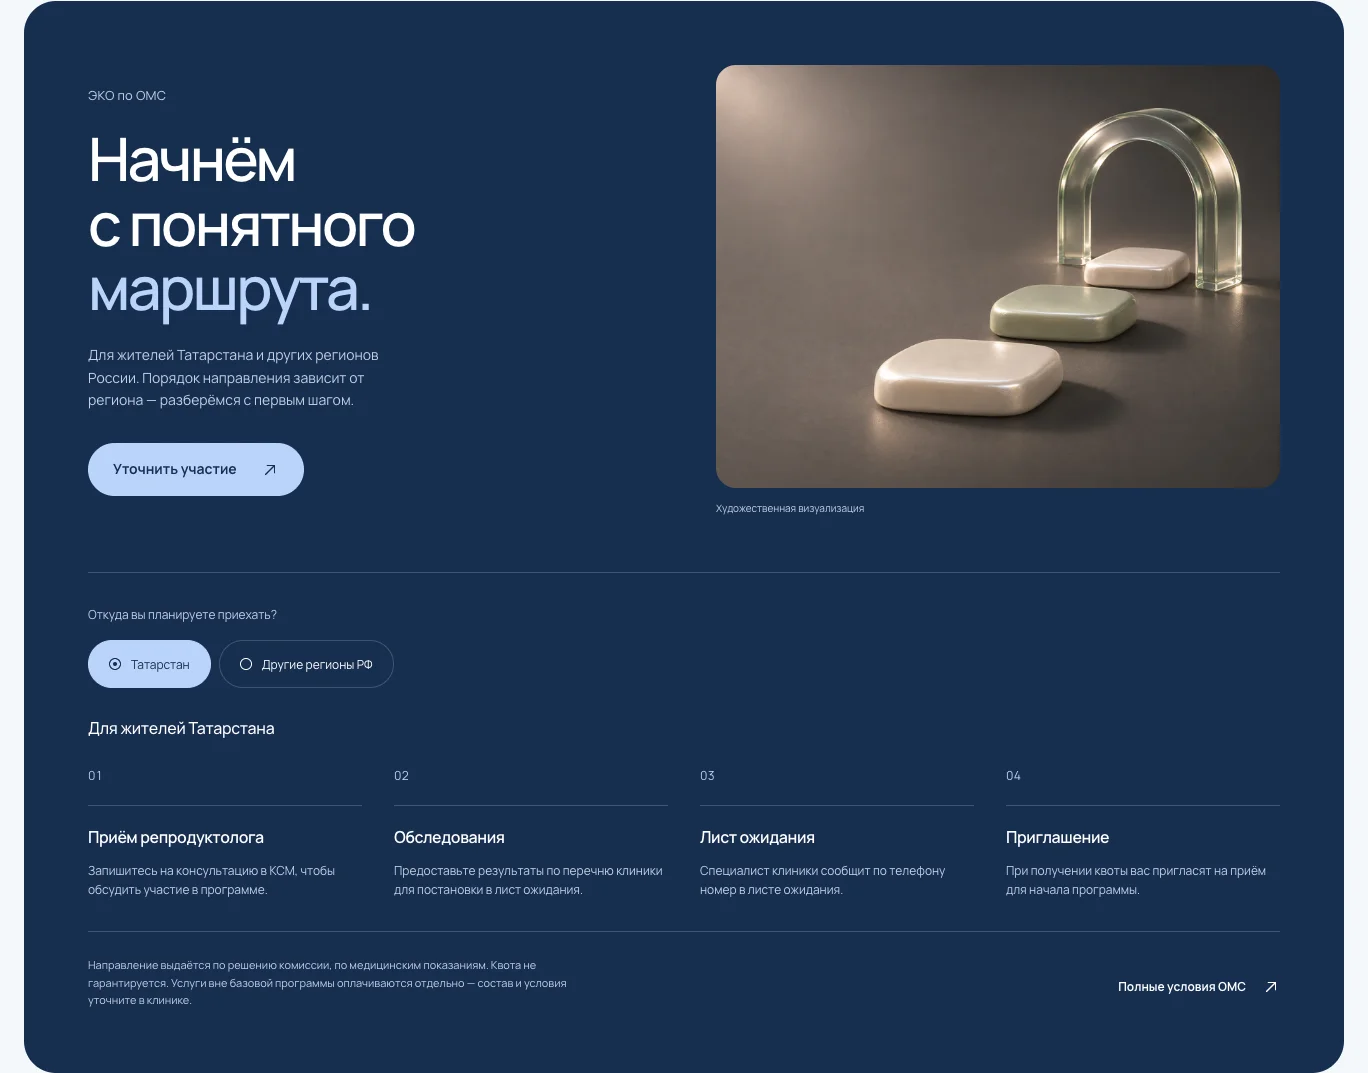
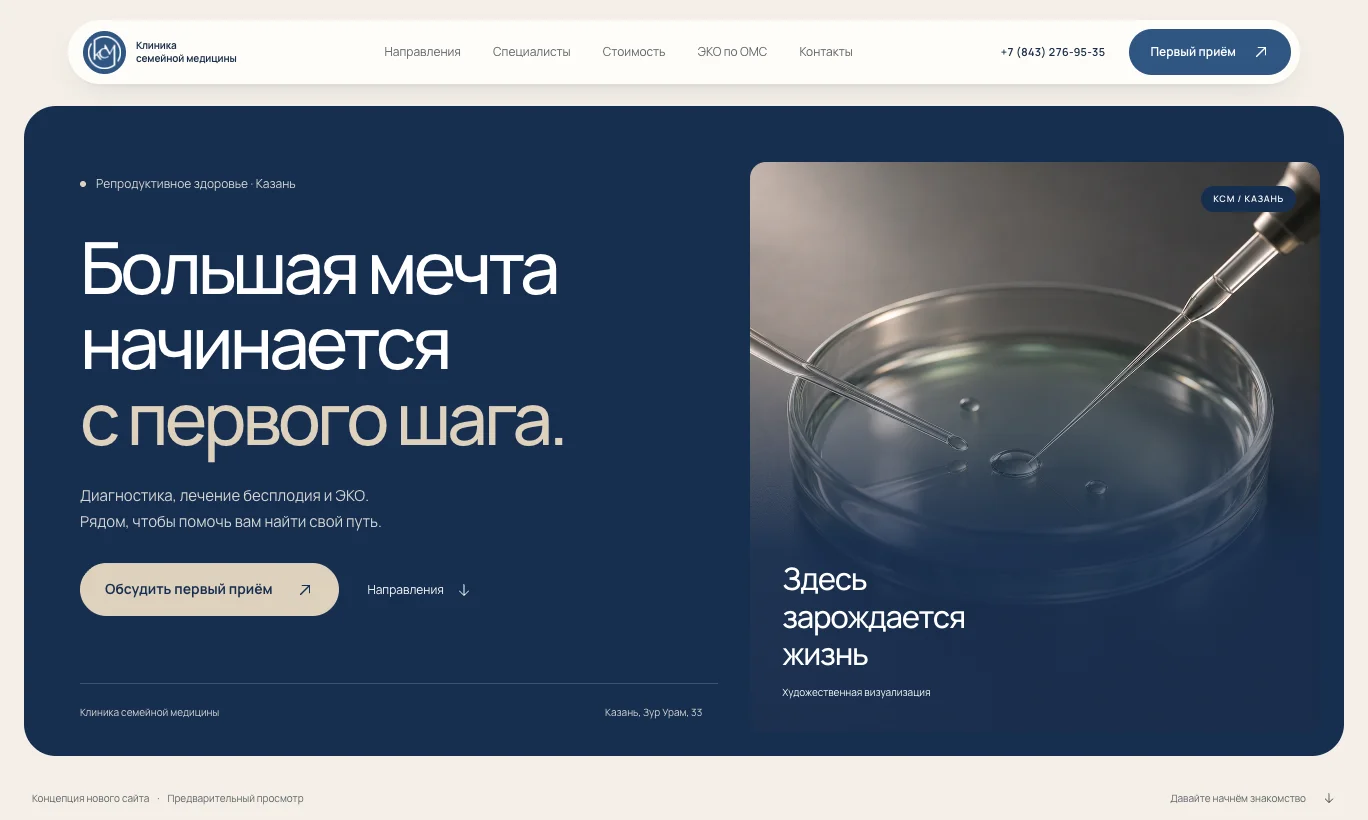
Refine clinic palette with warm beige and navy

diff --git a/src/styles.css b/src/styles.css
@@ -1,19 +1,19 @@
 /* tastemaker · macrostructure: Long-Scroll Narrative · mood: warm/premium · page: KSM landing v0
  * arc: hook(H2/photo) -> solution(fan) -> empathy(statement) -> proof(real specialists) -> price(F6) -> access(OMS/route) -> context(about/FAQ) -> close(C2)
  * nav: N3 · hero: H2 · footer: Ft1 · reference: user's DENTIS c78868e; no generated clinic imagery
- * palette: refined KSM blue/white · contrast: matrix verified; contextual action labels
+ * palette: KSM navy / warm beige · contrast: matrix verified; contextual action labels
  * critique (planning): ShowTell 4 · Phil 4 · Hier 5 · Spec 5 · Restr 4 · Var 4 */
 
 :root {
-  --bg: #f4f7fb; --surface: #ffffff; --surface-2: #e7eef7;
-  --ink: #1b2e49; --muted: #56657a; --dark: #172e50;
-  --primary: #3564c5; --primary-hover: #2953aa;
-  --accent-soft: #bad4fa; --accent-soft-hover: #d5e4fb;
+  --bg: #f4efe7; --surface: #fffdf9; --surface-2: #e7ddce;
+  --ink: #1b2e49; --muted: #5c6268; --dark: #172e50;
+  --primary: #2f5683; --primary-hover: #234464;
+  --accent-soft: #ded1bd; --accent-soft-hover: #ece2d2;
   --action-bg: var(--primary); --action-hover: var(--primary-hover); --action-ink: #ffffff;
-  --on-dark: #ffffff; --on-dark-muted: #c4d0e2;
+  --on-dark: #ffffff; --on-dark-muted: #d8d8d3;
   --line: rgb(27 46 73 / 12%); --dark-line: rgb(255 255 255 / 18%);
   --hero-shade: rgb(23 46 80 / 90%); --photo-shade: rgb(23 46 80 / 90%);
-  --nav-glass: rgb(255 255 255 / 85%); --label-glass: rgb(255 255 255 / 94%);
+  --nav-glass: rgb(255 253 249 / 90%); --label-glass: rgb(255 253 249 / 96%);
   --shadow-nav: 0 2px 3px rgb(27 46 73 / 3%), 0 12px 32px -18px rgb(27 46 73 / 24%);
   --shadow-card: 0 2px 4px rgb(27 46 73 / 4%), 0 24px 56px -20px rgb(27 46 73 / 23%);
   --font: 'Manrope Variable', 'Manrope', sans-serif;

diff --git a/index.html b/index.html
@@ -3,7 +3,7 @@
   <head>
     <meta charset="UTF-8" />
     <meta name="viewport" content="width=device-width, initial-scale=1" />
-    <meta name="theme-color" content="#f4f7fb" />
+    <meta name="theme-color" content="#f4efe7" />
     <link rel="icon" type="image/png" href="%BASE_URL%assets/clinic/logo.png" />
     <meta name="robots" content="noindex,nofollow" />
     <meta name="referrer" content="no-referrer" />

diff --git a/.github/README.md b/.github/README.md
@@ -4,7 +4,9 @@
 
 Интерактивный вариант главной страницы клиники репродуктивной медицины в Казани. Это **презентационная концепция, а не официальный сайт клиники** и не готовый многостраничный медицинский ресурс.
 
-![Блок ЭКО по ОМС в работающем проекте](preview.webp)
+![Главный экран в тёмно-синей и бежевой палитре](preview.webp)
+
+Текущая цветовая версия: глубокий тёмно-синий, тёплые бежевые фоны и фарфоровые поверхности. Видео на первом экране пока не добавлено.
 
 ## Что можно посмотреть
 
